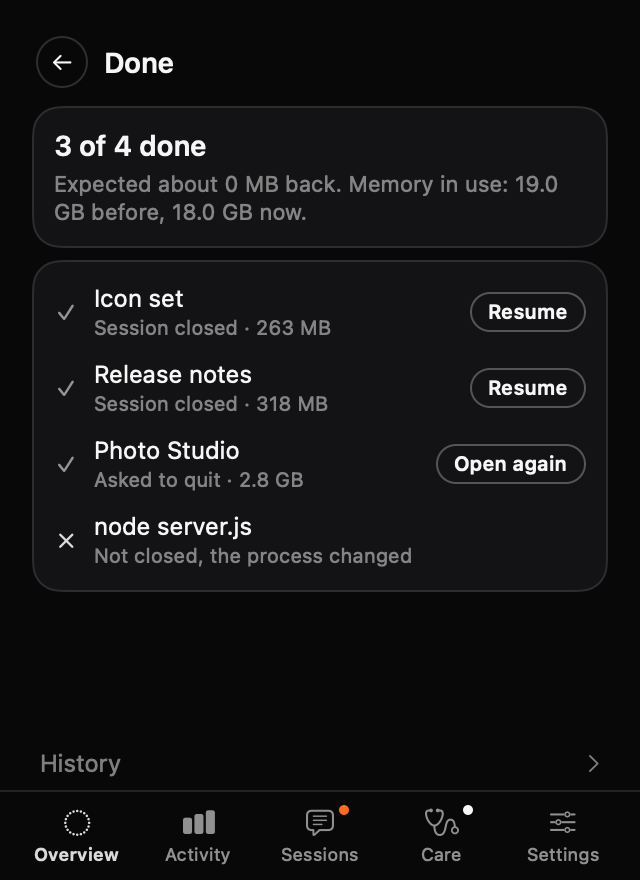
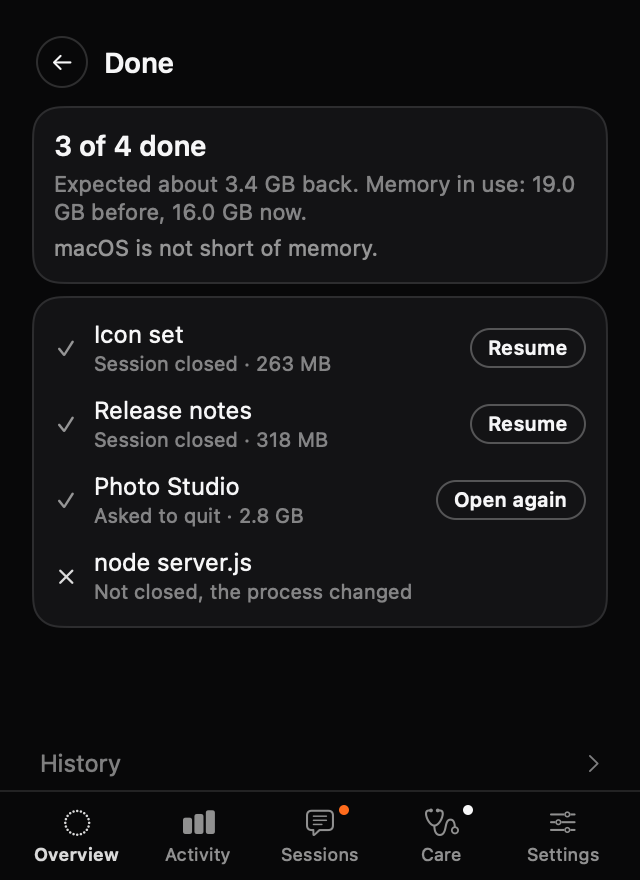
README says how to build until there is a download; the demo's done page has its expected figure

diff --git a/Sources/Pulse/Model.swift b/Sources/Pulse/Model.swift
@@ -332,7 +332,10 @@ final class Model: ObservableObject {
         gpuHistory = wave(0.14, 0.1, 3)
         loadDrivesOnce(demo: true)
         for r in Demo.receipts() { receipts.add(r) }
-        result = OptimizeResult(receipts: Set(receipts.list.prefix(4).map(\.id)), memBefore: 19 << 30, memAfter: 18 << 30)
+        // What the done page says after the plan above: what was expected, what memory did, and how macOS now sees it.
+        let closed = Array(receipts.list.prefix(4))
+        result = OptimizeResult(receipts: Set(closed.map(\.id)), memBefore: 19 << 30, memAfter: 16_400 << 20,
+                                promised: closed.filter(\.ok).reduce(0) { $0 + $1.bytes }, stateAfter: .calm)
     }
 
     /// The last page of the welcome.

diff --git a/README.md b/README.md
@@ -37,20 +37,18 @@ emulators and build daemons are shut down with their own tools; agents get a rea
 
 ## Install
 
-Needs macOS 14 or later, Apple silicon or Intel.
-
-1. Download the disk image from [Releases](https://github.com/shalevshafian/pulse/releases).
-2. Drag Pulse to Applications and open it.
-
-If its icon does not fit on the menu bar, open Pulse again from Applications: the panel opens in a window.
-
-Or build it, with Xcode 16 or later:
+Needs macOS 14 or later, Apple silicon or Intel, and Xcode 16 or later to build it:
 
 ```sh
 git clone https://github.com/shalevshafian/pulse.git
 cd pulse
 ./build.sh --install
 ```
+
+It is built for both kinds of Mac, signed for this one only, copied to Applications and opened.
+A signed and notarized disk image will be on [Releases](https://github.com/shalevshafian/pulse/releases); there is none yet.
+
+If its icon does not fit on the menu bar, open Pulse again from Applications: the panel opens in a window.
 
 ## Privacy
 
